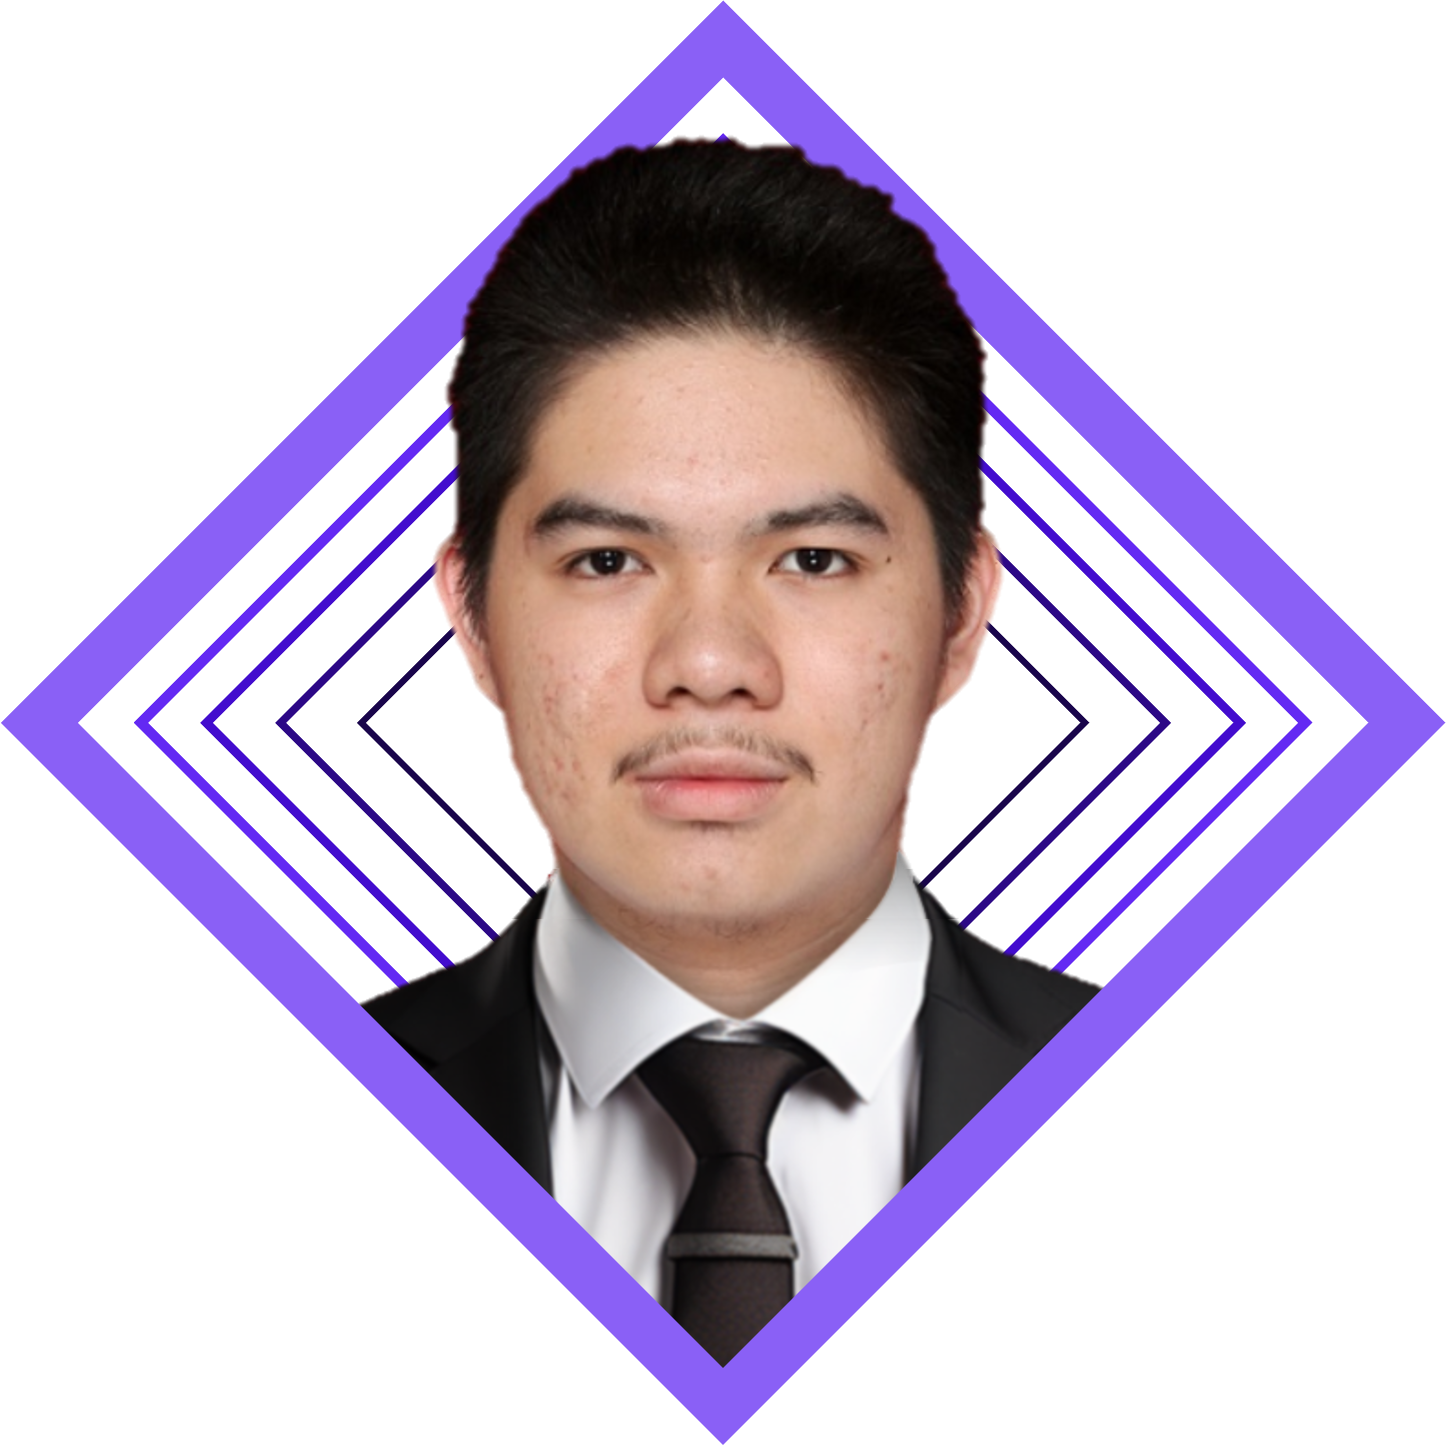
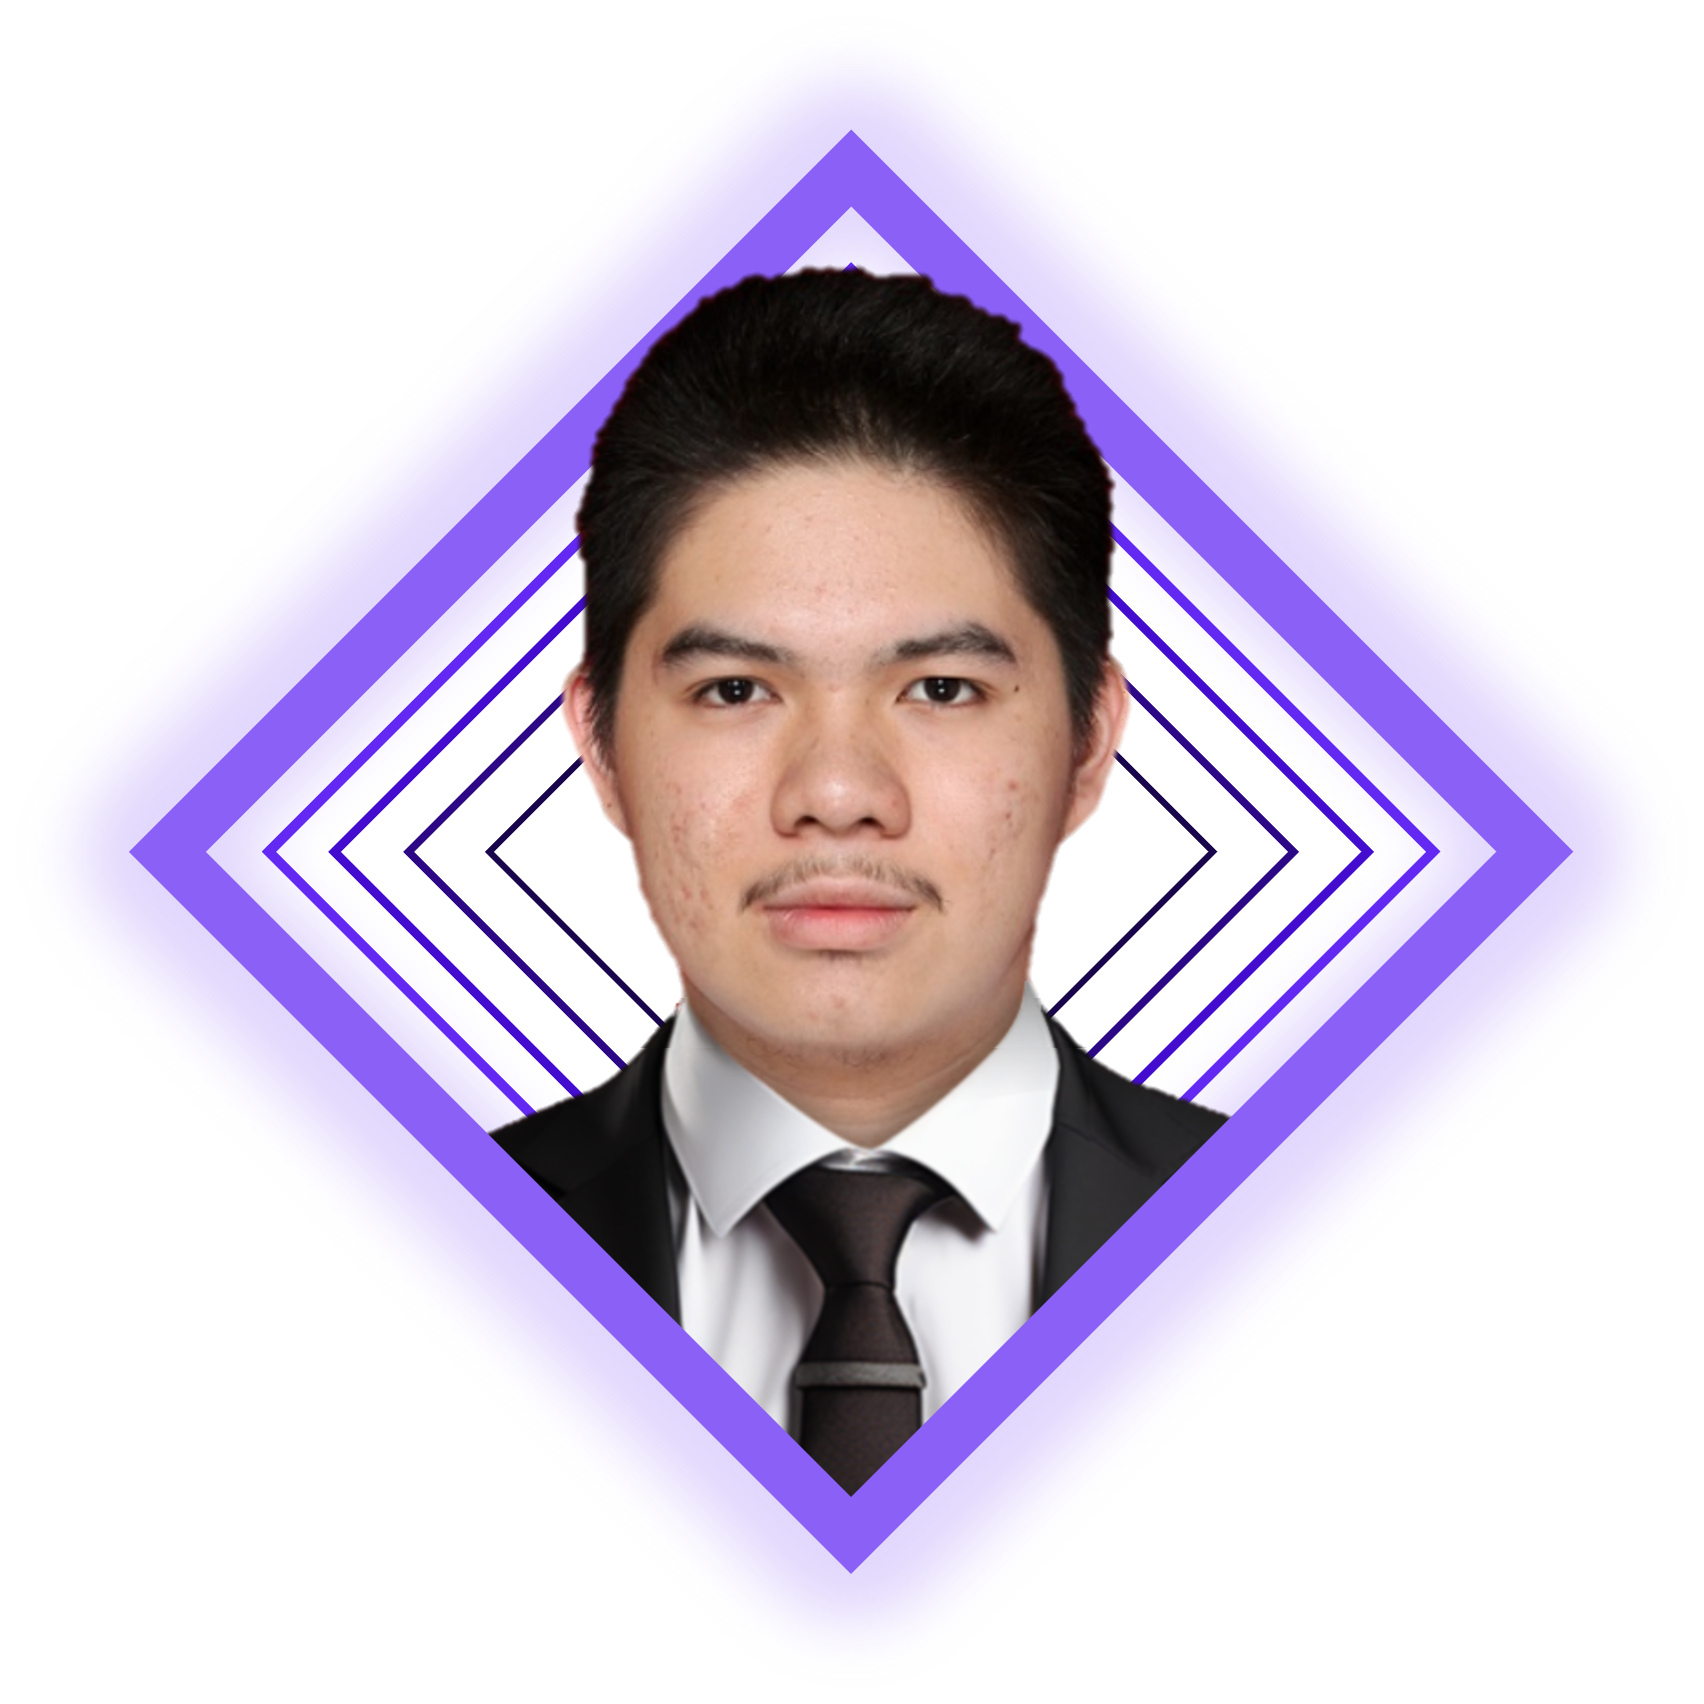
update 3d loading text, README, and face picture

diff --git a/src/components/About.jsx b/src/components/About.jsx
@@ -46,14 +46,14 @@ const About = () => {
         src={mario}
         alt="Mario"
       /> */}
-      <div className="mb-5">
+      <div className="mb-0">
         <motion.img
           src={mario}
           alt="Mario"
           variants={fadeIn("", "", 0.2, 3)} // Adjust direction, easing, delay, duration as needed
           initial="hidden"
           animate="show"
-          className="mx-auto h-[15rem] sm:h-[25rem] md:h-[30rem] lg:h-[35rem] object-contain" // Responsive height classes
+          className="mx-auto h-[20rem] sm:h-[30rem] md:h-[35rem] lg:h-[40rem] object-contain" // Responsive height classes
         />
       </div>
 

diff --git a/src/components/Loader.jsx b/src/components/Loader.jsx
@@ -8,12 +8,16 @@ const Loader = () => {
       <span className="canvas-load"></span>
       <p
         style={{
-          fontSize: 14,
+          fontSize: 12,
           color: "#f1f1f1",
           fontWeight: 800,
-          marginTop: 40,
+          // marginTop: 40,
+          textAlign: "left",
         }}
       >
+        {/* The percent loading the 2d assets */}
+        Loading<br/>
+        3D&nbsp;Asset...<br/>
         {progress.toFixed(2)}% {/* 2 = decimal places */}
       </p>
     </Html>

diff --git a/README.md b/README.md
@@ -1,6 +1,7 @@
 # 3D Portfolio
 
-A portfolio project to showcase some of my skills on the web.
+My official portfolio project to showcase some of my skills on the web.
+It's the one I use when applying for jobs.
 
 Project made by Mario.
 
@@ -15,4 +16,8 @@ Some screenshots:
 ![Part 5 of the project's screenshots](./screenshot5.PNG)
 ![Part 6 of the project's screenshots](./screenshot6.PNG)
 ![Part 7 of the project's screenshots](./screenshot7.PNG)
-![Part 7 of the project's screenshots](./screenshot8.PNG)
+![Part 8 of the project's screenshots](./screenshot8.PNG)
+
+Works on mobile too:
+
+![Part 9 of the project's screenshots](./screenshot9.PNG)
